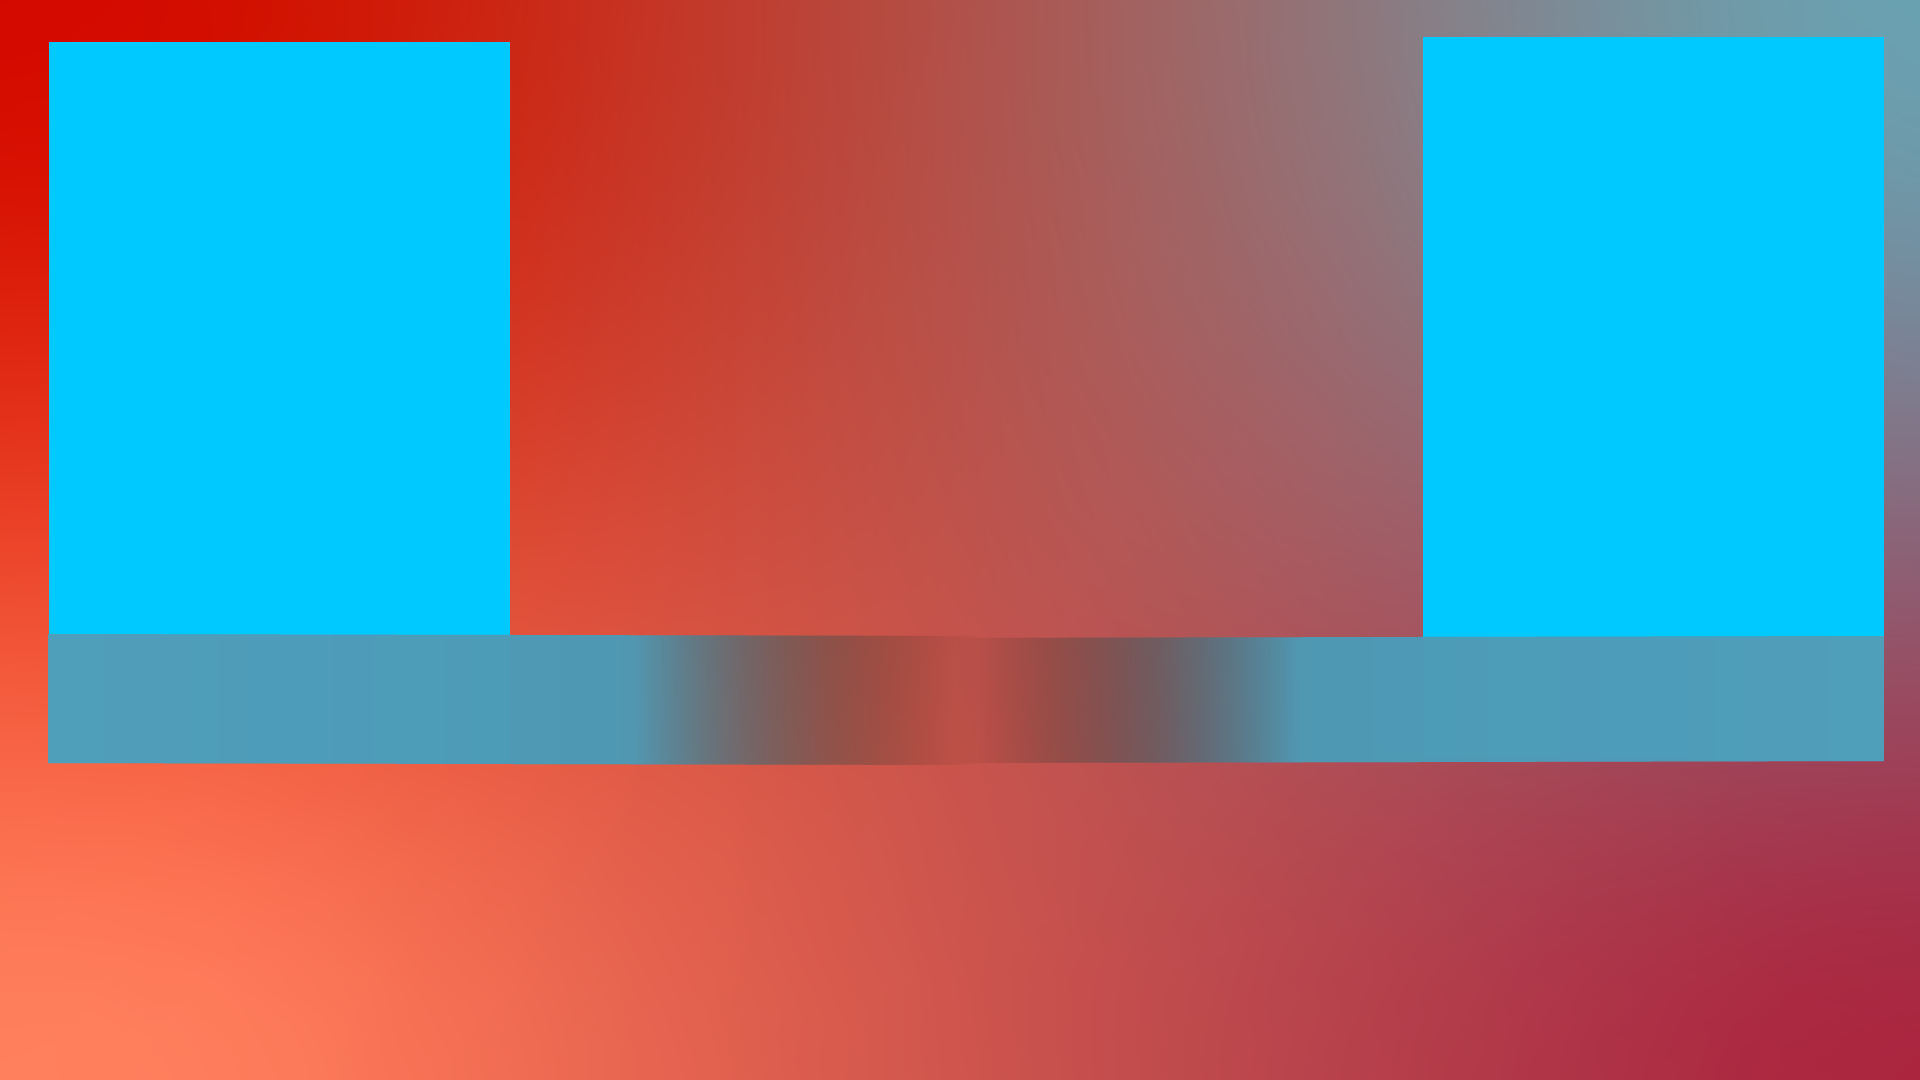
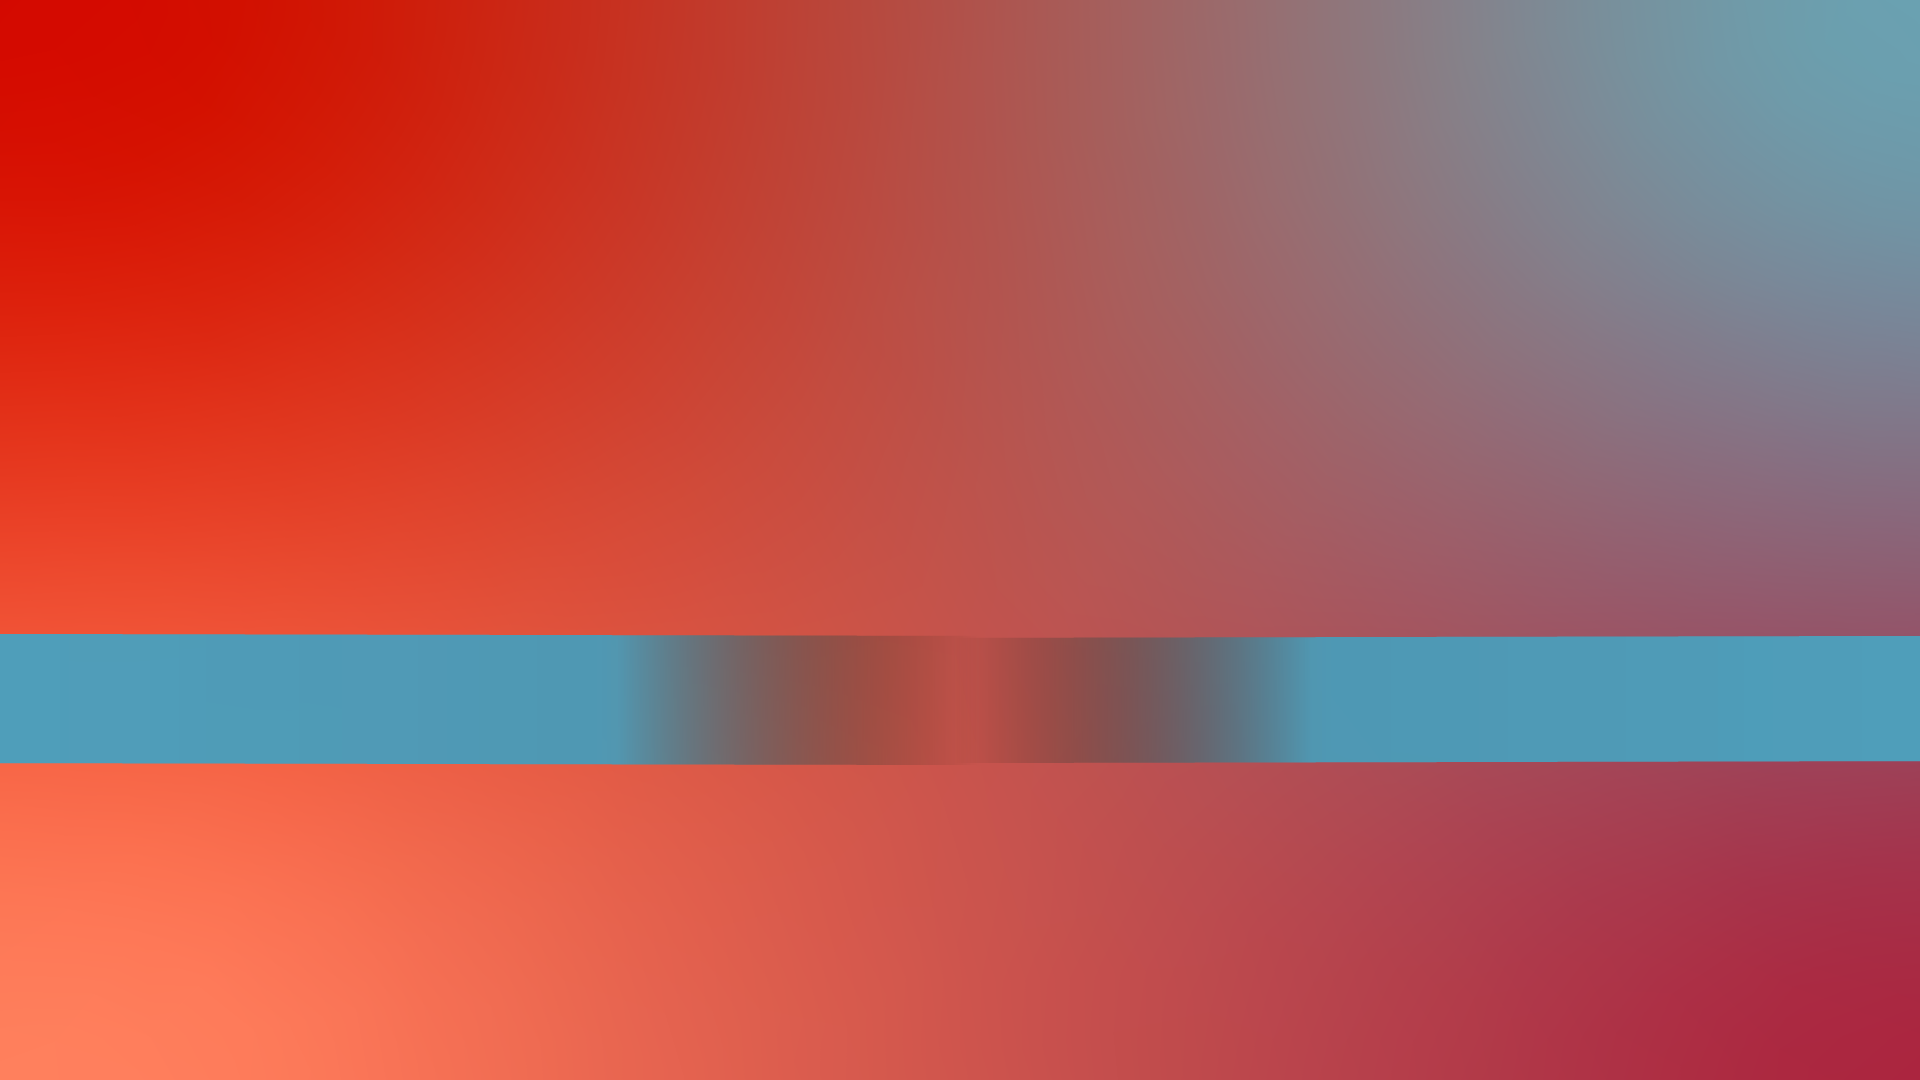
two cand

Changed region(s): [[0.0, 0.0306, 0.2812, 0.7333], [0.7188, 0.0306, 1.0, 0.7028]]

diff --git a/frontend/src/components/Demonstration.vue b/frontend/src/components/Demonstration.vue
@@ -98,7 +98,7 @@ export default {
                 .then(r => {
                   this.data = r
                   this.slide = c1_opened
-                  this.state = 3//1
+                  this.state = 1//1
                 })
                 .catch(e =>{
                   console.log(e)
@@ -127,7 +127,7 @@ export default {
                 .then(r => {
                   this.data = r
                   this.slide = c4_two_candidates
-                  this.state = 0 //4
+                  this.state = 4 //4
                 })
                 .catch(e =>{
                   console.log(e)

diff --git a/frontend/src/components/journalistScreens/4_two_candidates.vue b/frontend/src/components/journalistScreens/4_two_candidates.vue
@@ -1,6 +1,6 @@
 <template>
   <div class = "block align-items-start ">
-    <div class = "container-fluid text-white mt-4 pl-5 pr-5">
+    <div class = "container-fluid text-white mt-5 pl-5 pr-5">
       <div class = "row ">
         <div class = "col-3 " v-for="(el, i) in candidates.slice(0,1)" :key="i">
           <img class="photo" :src="el.photo"/>
@@ -107,8 +107,9 @@ export default {
     justify-content: center;
 }
 .photo{
-  height: 56vh;
+  height: 54.5vh;
   width: 43vh;
+
 }
 
 
